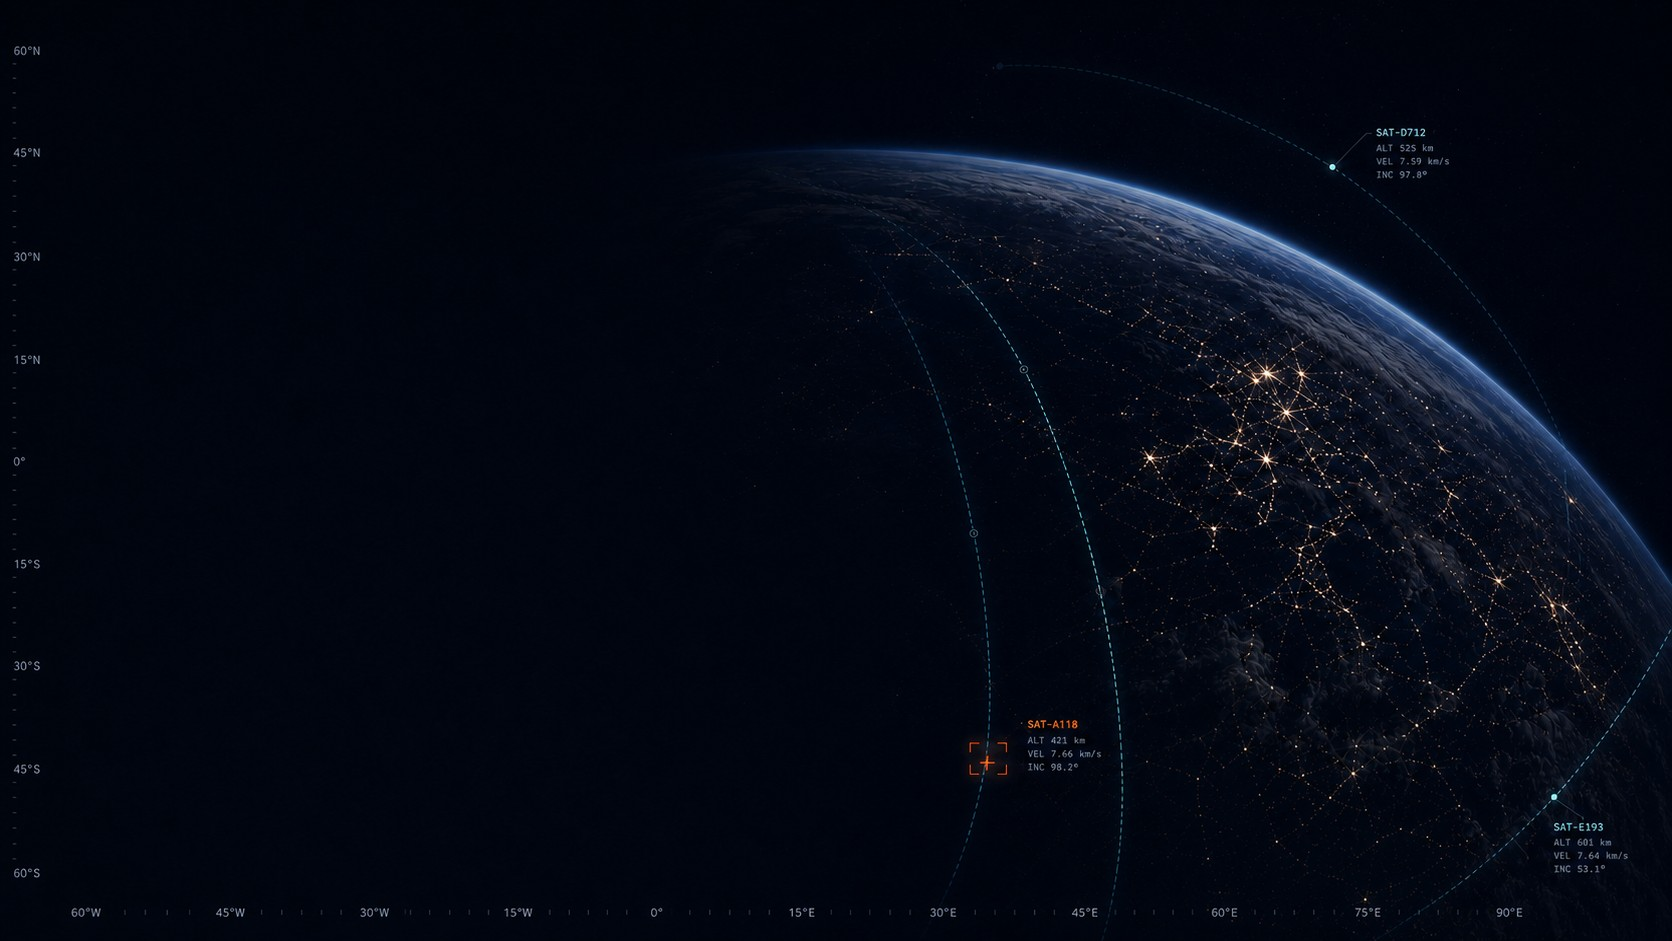
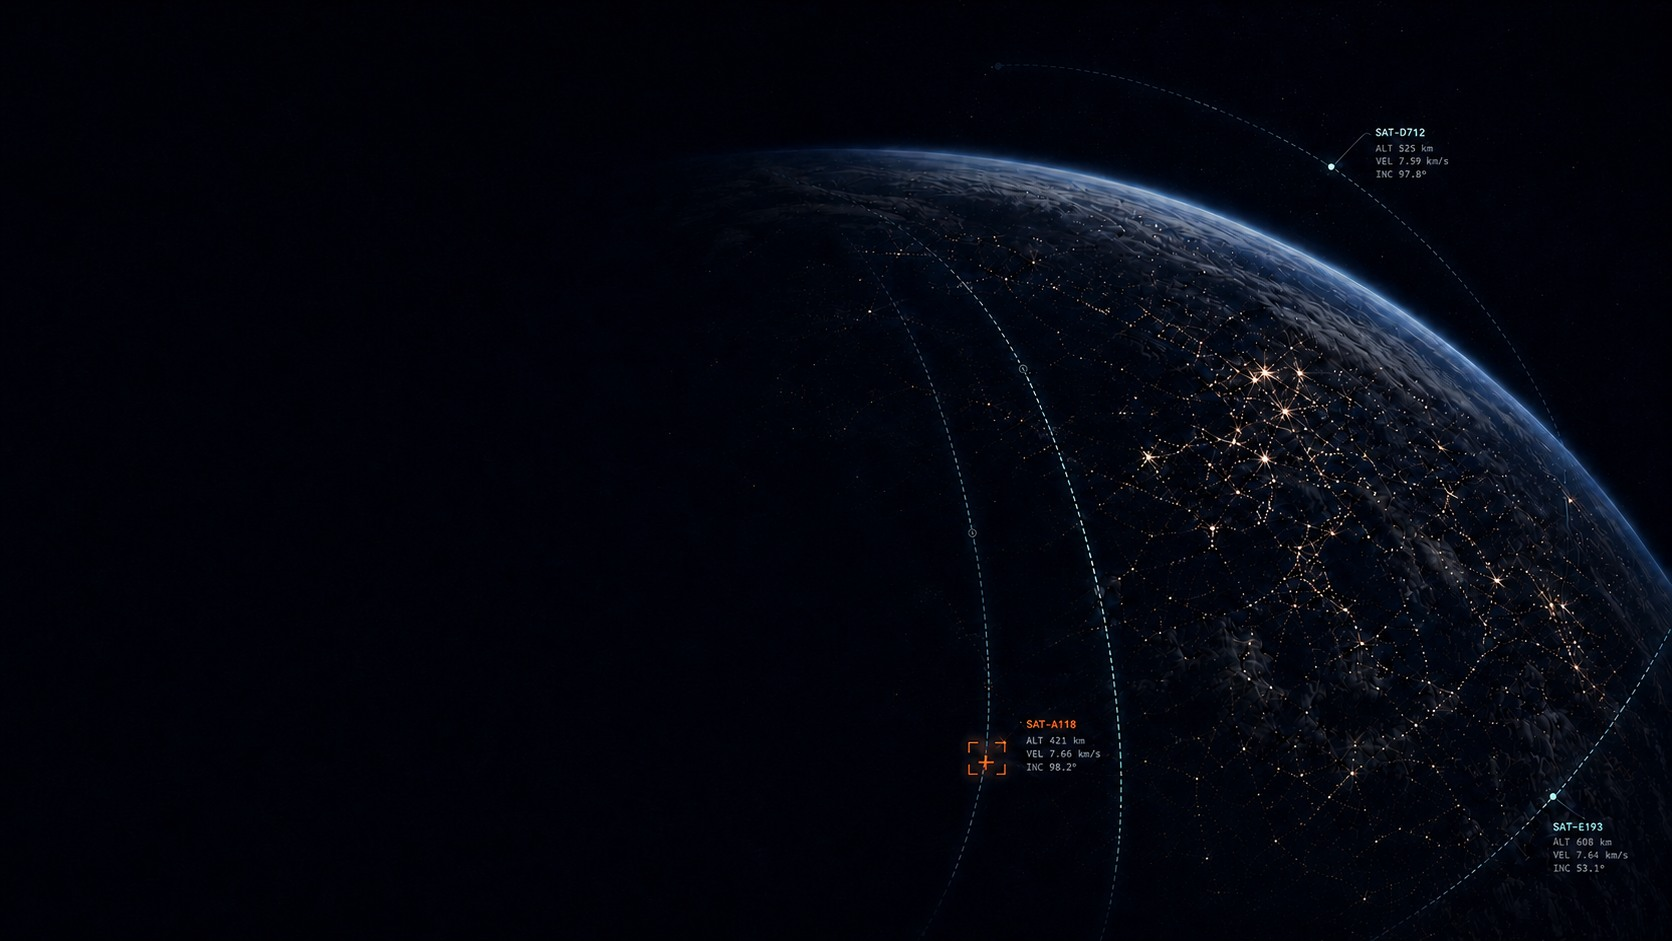
Refresh Orbit cartography backgrounds

diff --git a/AgentHub/assets/mini-app/themes/orbit/theme.css b/AgentHub/assets/mini-app/themes/orbit/theme.css
@@ -228,8 +228,22 @@ html[data-background-override="true"][data-background="orbit-limb"] {
   --hub-background-position: 58% 46%;
 }
 
+html[data-background-override="true"][data-background="orbit-aurora"] {
+  --hub-background-color: #01050a;
+  --hub-background-image: var(--orbit-aurora-image, url("./orbit-aurora.jpg"));
+  --hub-background-position: 60% center;
+}
+
+html[data-background-override="true"][data-background="orbit-earthrise"] {
+  --hub-background-color: #010204;
+  --hub-background-image: var(--orbit-earthrise-image, url("./orbit-earthrise.jpg"));
+  --hub-background-position: 60% center;
+}
+
 html[data-background-override="true"][data-background="orbit"] body::before,
-html[data-background-override="true"][data-background="orbit-limb"] body::before {
+html[data-background-override="true"][data-background="orbit-limb"] body::before,
+html[data-background-override="true"][data-background="orbit-aurora"] body::before,
+html[data-background-override="true"][data-background="orbit-earthrise"] body::before {
   background: radial-gradient(circle, rgb(148 233 255 / 100%) 0 1px, rgb(73 201 240 / 62%) 2px, transparent 5px) !important;
   content: "" !important;
 }
@@ -244,6 +258,11 @@ html[data-background-override="true"][data-background="orbit-limb"] body::before
   html:not([data-theme]) body::after,
   html[data-theme="orbit"] body::after {
     background-position: 64% center;
+  }
+
+  html[data-background-override="true"][data-background="orbit-aurora"],
+  html[data-background-override="true"][data-background="orbit-earthrise"] {
+    --hub-background-position: 76% center;
   }
 }
 

diff --git a/AgentHub/VSCodeExtension/render.test.js b/AgentHub/VSCodeExtension/render.test.js
@@ -863,6 +863,8 @@ test("Orbit fills the viewport with one translucent cartography console", () => 
     [
       ["orbit", "orbit-cartography.jpg"],
       ["orbit-limb", "orbit-limb.jpg"],
+      ["orbit-aurora", "orbit-aurora.jpg"],
+      ["orbit-earthrise", "orbit-earthrise.jpg"],
     ],
   );
   /* В отличие от Verdant чат занимает всю оставшуюся колонку, а свободная

diff --git a/AgentHub/assets/mini-app/themes/orbit/README.md b/AgentHub/assets/mini-app/themes/orbit/README.md
@@ -1,9 +1,10 @@
 # Орбита
 
 Тема превращает Agent Hub в единый центр орбитального наблюдения. Ночная Земля,
-координатные шкалы и трассы спутников проходят под полупрозрачной рабочей
-поверхностью, поэтому интерфейс занимает почти весь экран и не повторяет
-разнесённую компоновку Verdant.
+трассы спутников, полярное сияние и лунный горизонт проходят под полупрозрачной
+рабочей поверхностью, поэтому интерфейс занимает почти весь экран и не повторяет
+разнесённую компоновку Verdant. Координатные шкалы из «Картографии» удалены, чтобы
+они не образовывали отдельную яркую рейку вдоль края интерфейса.
 
 Знак `orbit-mark.png` взят непосредственно из согласованного концепта.
 Единственный живой эффект — редкий маркер сопровождения, который меняет только
